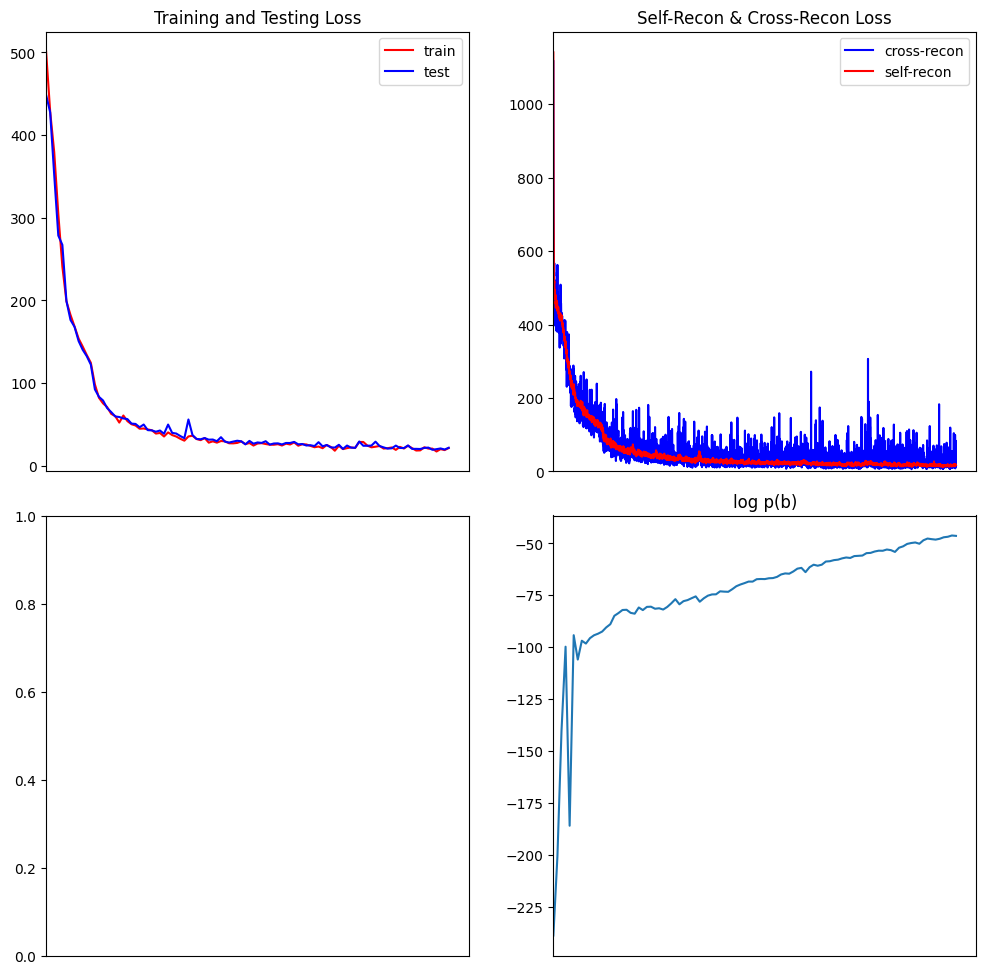
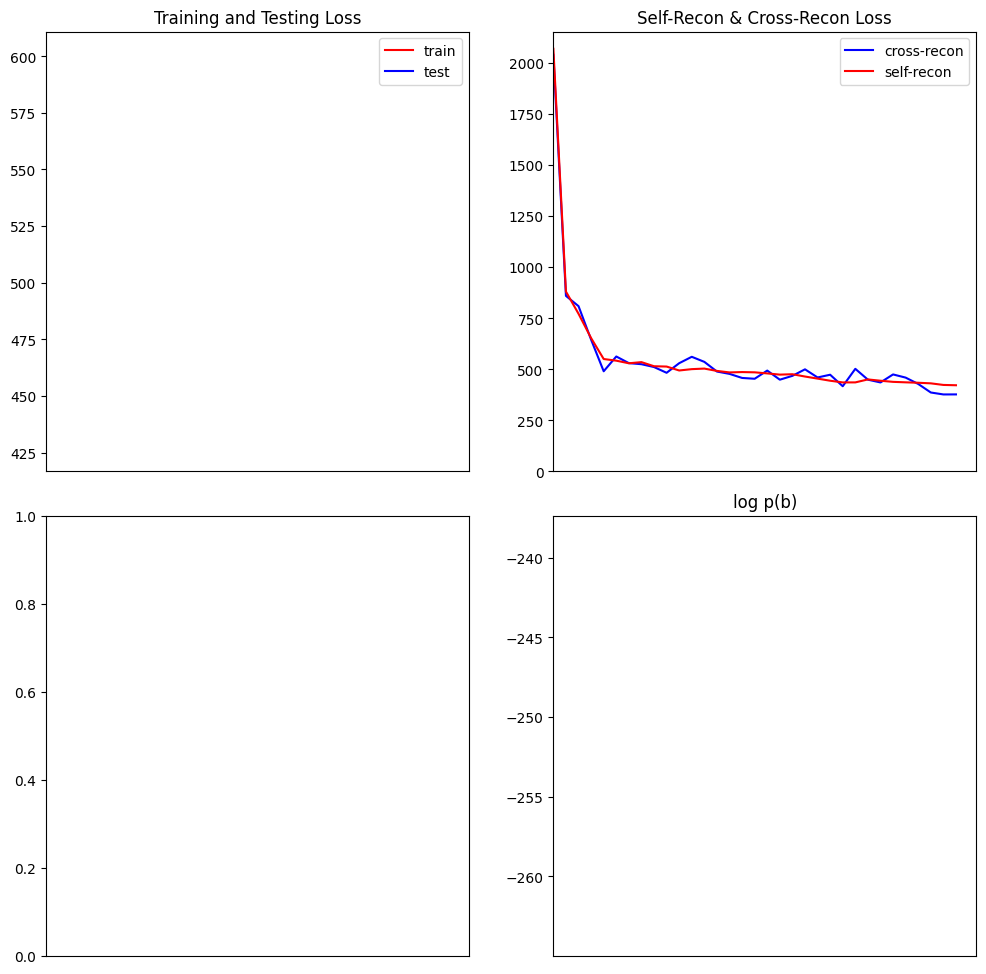
2023-2-23

diff --git a/5_fold_CV.py b/5_fold_CV.py
@@ -1,0 +1,122 @@
+from dataset import Dataset_starmen
+import pandas as pd
+import numpy as np
+import torch
+import torch.optim as optim
+from torch.autograd import Variable
+from torch.utils import data
+from model import AE_starmen
+import logging
+import sys
+import os
+
+
+os.environ['KMP_DUPLICATE_LIB_OK'] = 'True'
+
+logger = logging.getLogger(__name__)
+logger.setLevel(logging.DEBUG)
+format = logging.Formatter("%(message)s")
+
+ch = logging.StreamHandler(sys.stdout)
+ch.setFormatter(format)
+logger.addHandler(ch)
+
+device = torch.device("cuda:0" if torch.cuda.is_available() else "cpu")
+p = 0.2
+
+
+def generate_init_data():
+    catalog = pd.read_csv('index.csv')
+    catalog = catalog.loc[:, catalog.columns != 'id']
+    tau_list = catalog.iloc[:, 0]
+    age_list = catalog.iloc[:, 2]
+
+    npy_path_list = catalog.iloc[:, 3]
+    first_age_list = pd.DataFrame(data=[age_list[int(i / 10) * 10] for i in range(10000)], columns=['first_age'])
+    subject_list = pd.DataFrame(data=[int(i / 10) for i in range(10000)], columns=['subject'])
+    timepoint_list = pd.DataFrame(data=[i % 10 for i in range(10000)], columns=['timepoint'])
+    catalog = pd.concat([npy_path_list, subject_list, tau_list, age_list, timepoint_list, first_age_list], axis=1)
+    catalog = catalog.rename(columns={'t': 'age', 'tau': 'baseline_age'})
+    return catalog
+
+
+def generate_train_test(catalog, fold):
+    test_num = int(1000 * p)
+
+    test_index = np.arange(test_num, dtype=int) + test_num * fold
+    train_index = np.setdiff1d(np.arange(1000, dtype=int), test_index)
+
+    train = catalog.loc[catalog['subject'].isin(train_index)]
+    train_data = train.set_index(pd.Series(range(int((1 - p) * 10000))))
+
+    test = catalog.loc[catalog['subject'].isin(test_index)]
+    test_data = test.set_index(pd.Series(range(int(p * 10000))))
+
+    return train_data, test_data
+
+
+def generate_XY(train_data):
+    N = int(10000 * (1 - p))
+    I = int(1000 * (1 - p))
+
+    delta_age = train_data['age'] - train_data['baseline_age']
+    ones = pd.DataFrame(np.ones(shape=[N, 1]))
+    X = pd.concat([ones, delta_age, train_data['baseline_age']], axis=1)
+
+    zero = pd.DataFrame(np.zeros(shape=[10, 2]))
+    for i in range(I):
+        y = X.iloc[i * 10:(i + 1) * 10, :2]
+        y = y.set_axis([0, 1], axis=1)
+        if i == 0:
+            zeros = pd.concat([zero for j in range(I - 1)], axis=0)
+            Y = pd.concat([y, zeros], axis=0).reset_index(drop=True)
+        elif i != I - 1:
+            zeros1 = pd.concat([zero for j in range(i)], axis=0)
+            zeros2 = pd.concat([zero for j in range(I - 1 - i)], axis=0).reset_index(drop=True)
+            yy = pd.concat([zeros1, y, zeros2], axis=0).reset_index(drop=True)
+            Y = pd.concat([Y, yy], axis=1)
+        else:
+            zeros = pd.concat([zero for j in range(I - 1)], axis=0)
+            yy = pd.concat([zeros, y], axis=0).reset_index(drop=True)
+            Y = pd.concat([Y, yy], axis=1)
+
+    X = torch.tensor(X.values)
+    Y = torch.tensor(Y.values)
+    return X, Y
+
+
+if __name__ == '__main__':
+    # hyperparameter
+    epochs = 500
+    lr = 1e-3
+    batch_size = 128
+
+    logger.info(f"Device is {device}")
+    catalog = generate_init_data()
+
+    for fold in range(5):
+        logger.info(f"##### Fold {fold + 1}/5 #####\n")
+
+        train_data, test_data = generate_train_test(catalog, fold)
+        train_data.requires_grad = False
+        test_data.requires_grad = False
+
+        Dataset = Dataset_starmen
+        train = Dataset(train_data['path'], train_data['subject'], train_data['baseline_age'], train_data['age'],
+                        train_data['timepoint'], train_data['first_age'])
+        test = Dataset(test_data['path'], test_data['subject'], test_data['baseline_age'], test_data['age'],
+                       test_data['timepoint'], test_data['first_age'])
+
+        train_loader = torch.utils.data.DataLoader(train, batch_size=batch_size, shuffle=True,
+                                                   num_workers=0, drop_last=False, pin_memory=True)
+
+        # training
+        autoencoder = AE_starmen()
+        X, Y = generate_XY(train_data)
+        X, Y = Variable(X).to(device).float(), Variable(Y).to(device).float()
+        autoencoder.X, autoencoder.Y = X, Y
+
+        optimizer_fn = optim.Adam
+        optimizer = optimizer_fn(autoencoder.parameters(), lr=lr)
+        autoencoder.train_(train_loader, test=test, optimizer=optimizer, num_epochs=epochs)
+        torch.save(autoencoder, 'model/{}_fold_starmen'.format(fold))

diff --git a/data_preprocess.py b/data_preprocess.py
@@ -25,11 +25,11 @@ test_index = np.sort(index[:int(len(index) * p)])
 
 train = catalog.loc[catalog['subject'].isin(train_index)]
 train_data = train.set_index(pd.Series(range(int((1 - p) * 10000))))
-torch.save(train_data, 'data/train_starmen')
+# torch.save(train_data, 'data/train_starmen')
 
 test = catalog.loc[catalog['subject'].isin(test_index)]
 test_data = test.set_index(pd.Series(range(int(p * 10000))))
-torch.save(test_data, 'data/test_starmen')
+# torch.save(test_data, 'data/test_starmen')
 
 
 def hist_norm(data, figure_num, bins=70):
@@ -139,4 +139,5 @@ def generate_XY():
 
 
 if __name__ == '__main__':
-    generate_XY()
+    # generate_XY()
+    plot_sample()

diff --git a/load.py b/load.py
@@ -54,4 +54,4 @@ if __name__ == '__main__':
     recon_img, z, zu, zv = ae.forward(test_image)
     recon = recon_img[0]
     test = test_image[0] - 1e-6
-    print(ae.loss(recon, test))
+    print(ae.train_loss[-1])
